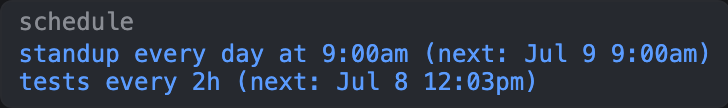
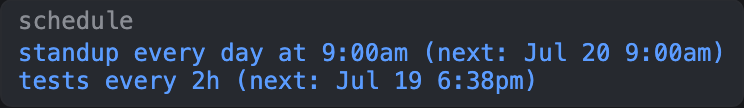
docs(automation): document the schedules tab and New schedule dialog
The scheduling doc page was missing several recently-shipped surfaces: the aggregated schedules tab (with its screenshot), the web New schedule dialog, the metadata-bar clock button's hover/pin/auto-show behavior, busy-agent queuing on fire, and scheduling a harness launch with a starting prompt. Adds a help.md row for the schedules command and removes the resolved backlog item.

Changed region(s): [[0.0, 0.3889, 0.9973, 0.6111], [0.0, 0.6389, 0.7555, 0.8889], [0.0302, 0.0833, 0.1813, 0.2778]]

diff --git a/web/src/SchedulesTab.tsx b/web/src/SchedulesTab.tsx
@@ -79,6 +79,7 @@ export function SchedulesTab({ entries, tabs, client, compact = false, dock, ind
       ref={containerRef}
       tabIndex={0}
       onKeyDown={onKeyDown}
+      data-doc-shot="schedules-tab"
     >
       {dock && <DockCycleHeader dock={dock} client={client} index={index} classPrefix="schedules" />}
       {entries.length === 0 ? (

diff --git a/documentation/user-documentation/automation/scheduling.md b/documentation/user-documentation/automation/scheduling.md
@@ -28,6 +28,8 @@ While the active tab has timers, a small **schedule** window floats at the top r
 
 ![The floating schedule window listing two timers with their schedules and next run times.](/screenshots/schedule-window.png)
 
+In the web app, a clock icon in the tab's metadata bar opens this same panel: it lights up whenever the tab has a scheduled entry, and stays dark and unclickable with an explanatory tooltip when it doesn't. Hovering the lit icon shows the panel; moving away hides it again. Clicking pins the panel open until you click a second time. Switching to a tab with scheduled entries auto-shows its panel for five seconds before fading; moving the pointer onto the icon or panel during that window cancels the fade and hands off to normal hover behavior.
+
 To manage timers from the command bar:
 
 ```
@@ -54,8 +56,42 @@ The timer then belongs to the target tab — it shows in *that* tab's schedule w
 
 <img class="agent-float" src="/agents/hakim-south-west.png" alt="" />
 
-In an agent tab, the command is dispatched as if typed. In a [harness tab](/user-documentation/advanced-agents/harness), the command is typed into the harness as a line of input — and if the harness isn't accepting input yet, the timer stays due and retries until it lands. After firing, a one-shot timer is removed; a recurring one advances to its next run.
+In an agent tab, the command is dispatched as if typed. If the agent is busy when the timer fires, the command joins its [command queue](/user-documentation/command-bar/queue) instead of running right away — it runs once the agent is free, same as anything else queued there. In a [harness tab](/user-documentation/advanced-agents/harness), the command is typed into the harness as a line of input — and if the harness isn't accepting input yet, the timer stays due and retries until it lands. After firing, a one-shot timer is removed; a recurring one advances to its next run.
 
 An agent's timers persist with its state, surviving `janus --relaunch` — a timer whose agent isn't currently open simply waits until that agent is open again. Harness tabs' timers are the exception: they live in memory only and end when the harness tab closes.
 
-[Profiles](/user-documentation/automation/profiles) can pre-author a harness tab's schedule so it's set up on every launch.
+[Profiles](/user-documentation/automation/profiles) can pre-author a harness tab's schedule so it's set up on every launch. Since launching a harness is an ordinary command, you can schedule one with a starting prompt too — wrap the whole [`harness … with <prompt>`](/user-documentation/advanced-agents/harness) command:
+
+```
+schedule deploy at 5pm harness claude with fix the failing tests
+```
+
+This opens a fresh harness tab at 5pm and feeds it that prompt as soon as it's ready.
+
+## Seeing every schedule at once
+
+<img class="agent-float left" src="/agents/tahir-south-east.png" alt="" />
+
+`schedules` (plural) opens one tab that aggregates every scheduled command across every open tab into a single list, ordered by next-to-run, regardless of which tab owns each entry — where the floating schedule window shows only the active tab's own timers. There's only ever one; a second `schedules` reuses it instead of opening another.
+
+```
+schedules         open (or focus) the aggregated list
+schedules left    dock it in the left sidebar
+schedules right   dock it in the right sidebar
+```
+
+![The aggregated schedules tab listing two timers with their owning tab, next-run time, spec, and command.](/screenshots/schedules-tab.png)
+
+The tab is view-only — it has no command bar. Each row shows the owning tab, the timer's name, its next-run time, its schedule spec, and the command it runs; recurring entries are shown in the accent color, matching the schedule window. Docked into a sidebar, the list compresses to next-run time, name, and owning tab, dropping the command and spec to fit the narrower width. Either way the list updates live as timers fire and new ones are added — no need to reopen it — and shows "No scheduled commands." when nothing is scheduled anywhere.
+
+Click a row to select it; double-click it, or press `Enter` with it selected, to jump straight to the tab that owns it. `↑`/`↓` move the selection one row at a time, and `Home`/`End` jump to the first or last row. Pressing `Backspace` or `Delete` on a selected row opens a confirmation dialog — `Delete schedule "<name>"?` with **Delete** and **Cancel** — and confirming cancels that timer in its owning tab, the same as `schedule cancel <name>` run there. Creating or editing a schedule still happens with the `schedule` command in the tab that owns it.
+
+Like the [notifications feed](/user-documentation/tab-types/notifications), the schedules tab can dock into either sidebar and shares that sidebar with other dockable tabs rather than displacing them; while docked, its header carries a button to cycle it to the other side.
+
+## Scheduling from a dialog
+
+In the web app, typing bare `schedule` — the word with nothing after it — opens a **New schedule** dialog instead of printing the `Usage:` message. (The terminal app still prints `Usage:` for a bare `schedule`.)
+
+The dialog has a name field, a target-tab dropdown (agent and harness tabs only, defaulting to the tab you're on), a schedule-type selector covering all five forms above, the inputs that type needs, and a command field. **Schedule** stays disabled until the name, command, and that type's required inputs are filled in; submitting it is equivalent to typing the same `schedule` command by hand, so a duplicate name or parse problem shows up as a transcript line just like it would from the command bar. **Cancel** or `Escape` closes it without scheduling anything. Your entries are remembered if you reopen the dialog later in the same session.
+
+The dialog only creates new timers — manage existing ones with `schedule list` / `cancel` / `clear`, or the schedules tab above.

diff --git a/product/backlog/user-documentation.md b/product/backlog/user-documentation.md
@@ -6,8 +6,6 @@ Functional areas where user documentation lags application behavior, scored 1–
 
 ## candidates
 
-* scheduling (6/10) — `documentation/user-documentation/automation/scheduling.md` covers the command grammar and per-tab schedule window well, but about 6 of 16 facts are missing, mostly whole recently-shipped surfaces. Missing: the `schedules` command (plural) that opens the aggregated view-only tab listing every timer across all tabs ordered next-to-run, with row selection, Enter to jump to the owning tab, and `Backspace`/`Delete` opening a delete-confirmation dialog; `schedules left`/`right` docking; the web New schedule dialog opened by a bare `schedule` (the terminal UI keeps the `Usage:` message); the metadata-bar clock button with hover, pin, and five-second auto-show; scheduling a harness launch with a prompt (`schedule deploy at 5pm harness claude with fix the failing tests`); a firing into a busy agent tab queues behind its other queued commands. The ground truth is `product/specs/scheduling.md`, `src/commands/schedules.ts`, and `src/schedule-manager.ts`. Fix by adding a schedules-tab section and a New-schedule-dialog note to `documentation/user-documentation/automation/scheduling.md`, and a `schedules` row to `help.md`'s Commands table if one is still absent.
-
 * ssh-tab (6/10) — SSH tabs have no doc page of their own, but the SSH sessions section of `documentation/user-documentation/advanced-agents/harness.md` covers the basics (verbatim passthrough, labeling, `connection close ssh:<name>`, input/lifecycle by reference to harness tabs, no `as`/`-w`), so about 5 of 10 facts are missing, none wrong — rescored from 9 after the earlier run's filename-only check missed that section. Missing facts: the `Usage: ssh <destination> [ssh options].` error for a bare `ssh`; the launch command is recorded in the creator's transcript so a failed connect is still visible; `connection close ssh:<id>` matches label first, then destination when duplicates exist; the tab closes as soon as the ssh process exits and its error output dies with it, and closing the last tab quits the app; `shell ssh <host>` still opens an inline terminal card instead of a tab. The ground truth is `product/specs/ssh-tab.md` and the ssh handling in `src/`. Fix by expanding the SSH sessions section in `documentation/user-documentation/advanced-agents/harness.md` (or splitting it into a page under `documentation/user-documentation/tab-types/`) and verifying the `help.md` row still matches.
 
 * transcript (6/10) — Transcript scrolling keys are documented in `documentation/user-documentation/getting-started/keyboard.md`, but about 6 of 12 facts are missing and no page explains the transcript's interactive behavior. Missing: `file:line` patterns in output (like `src/foo.ts:42`) are clickable and open the file in an editor tab at that line; double-clicking a previous command's prompt line re-runs it; agent tool steps appear collapsed as `N tool steps` with a click or `Ctrl+T` expanding them (keyboard.md has the key but not the behavior); the mouse wheel scrolls line by line; a scrollbar with a percentage appears in the prompt bar when scrolled up; ANSI-colored shell output renders with its colors. The ground truth is `product/specs/transcript.md`. Fix by adding a transcript section to an existing page (`documentation/user-documentation/getting-started/application.md` or `tabs.md`) or a short new page under `documentation/user-documentation/getting-started/`, covering the clickable links, re-run, and collapsed tool steps.
@@ -23,6 +21,8 @@ Functional areas where user documentation lags application behavior, scored 1–
 * tabs — flagged by git log (metadata row with launch-agent, file-navigator, connections, and schedule buttons) against `documentation/user-documentation/getting-started/tabs.md`; not yet evaluated (over this run's limit)
 
 ## resolved
+
+* scheduling — documented in `documentation/user-documentation/automation/scheduling.md` (added a Seeing every schedule at once section for the `schedules` tab with a screenshot, a Scheduling from a dialog section for the web New schedule dialog, a metadata-bar clock button note, a busy-agent queuing note, and a scheduled-harness-launch-with-prompt example) and a `schedules` row in `help.md`'s Commands table (removed 2026-07-19)
 
 * file-tree-tab — documented in `documentation/user-documentation/tab-types/file-navigator.md` (added a Finding a file by name section, a Moving files by drag-and-drop section covering the drag gesture and dropping onto the command bar, a Creating a new file section, and `Backspace`/`Delete` and `Cmd+N` rows to the Keyboard table; also corrected the `→` row, which wrongly said an expanded directory's first child gets selected — it re-roots the tree there) (removed 2026-07-19)
 

diff --git a/help.md b/help.md
@@ -22,6 +22,7 @@
 | `rename` | Rename the current tab's display name (`rename <name>`); bare `rename` clears the alias |
 | `connection` | List or close open connections (sqlite/shell/acp/browser/ssh) |
 | `schedule` | Run a command later — once or on a recurring schedule |
+| `schedules` | Open the aggregated, view-only tab listing every scheduled command across all tabs (`schedules left`/`right` to dock it) |
 | `profile` | Launch a saved set of agents for a use case |
 | `harness` | Open an AI coding harness (claude/opencode/codex) in a full-tab terminal (add `-w` / `--workspace` to clone the repo, `-y` / `--yes` to auto-approve claude's permission prompts — claude only, requires `-w`); `harness capture <name>` snapshots a harness tab's screen into an editor tab |
 | `ssh` | Open an SSH session to a remote host in a full-tab terminal |